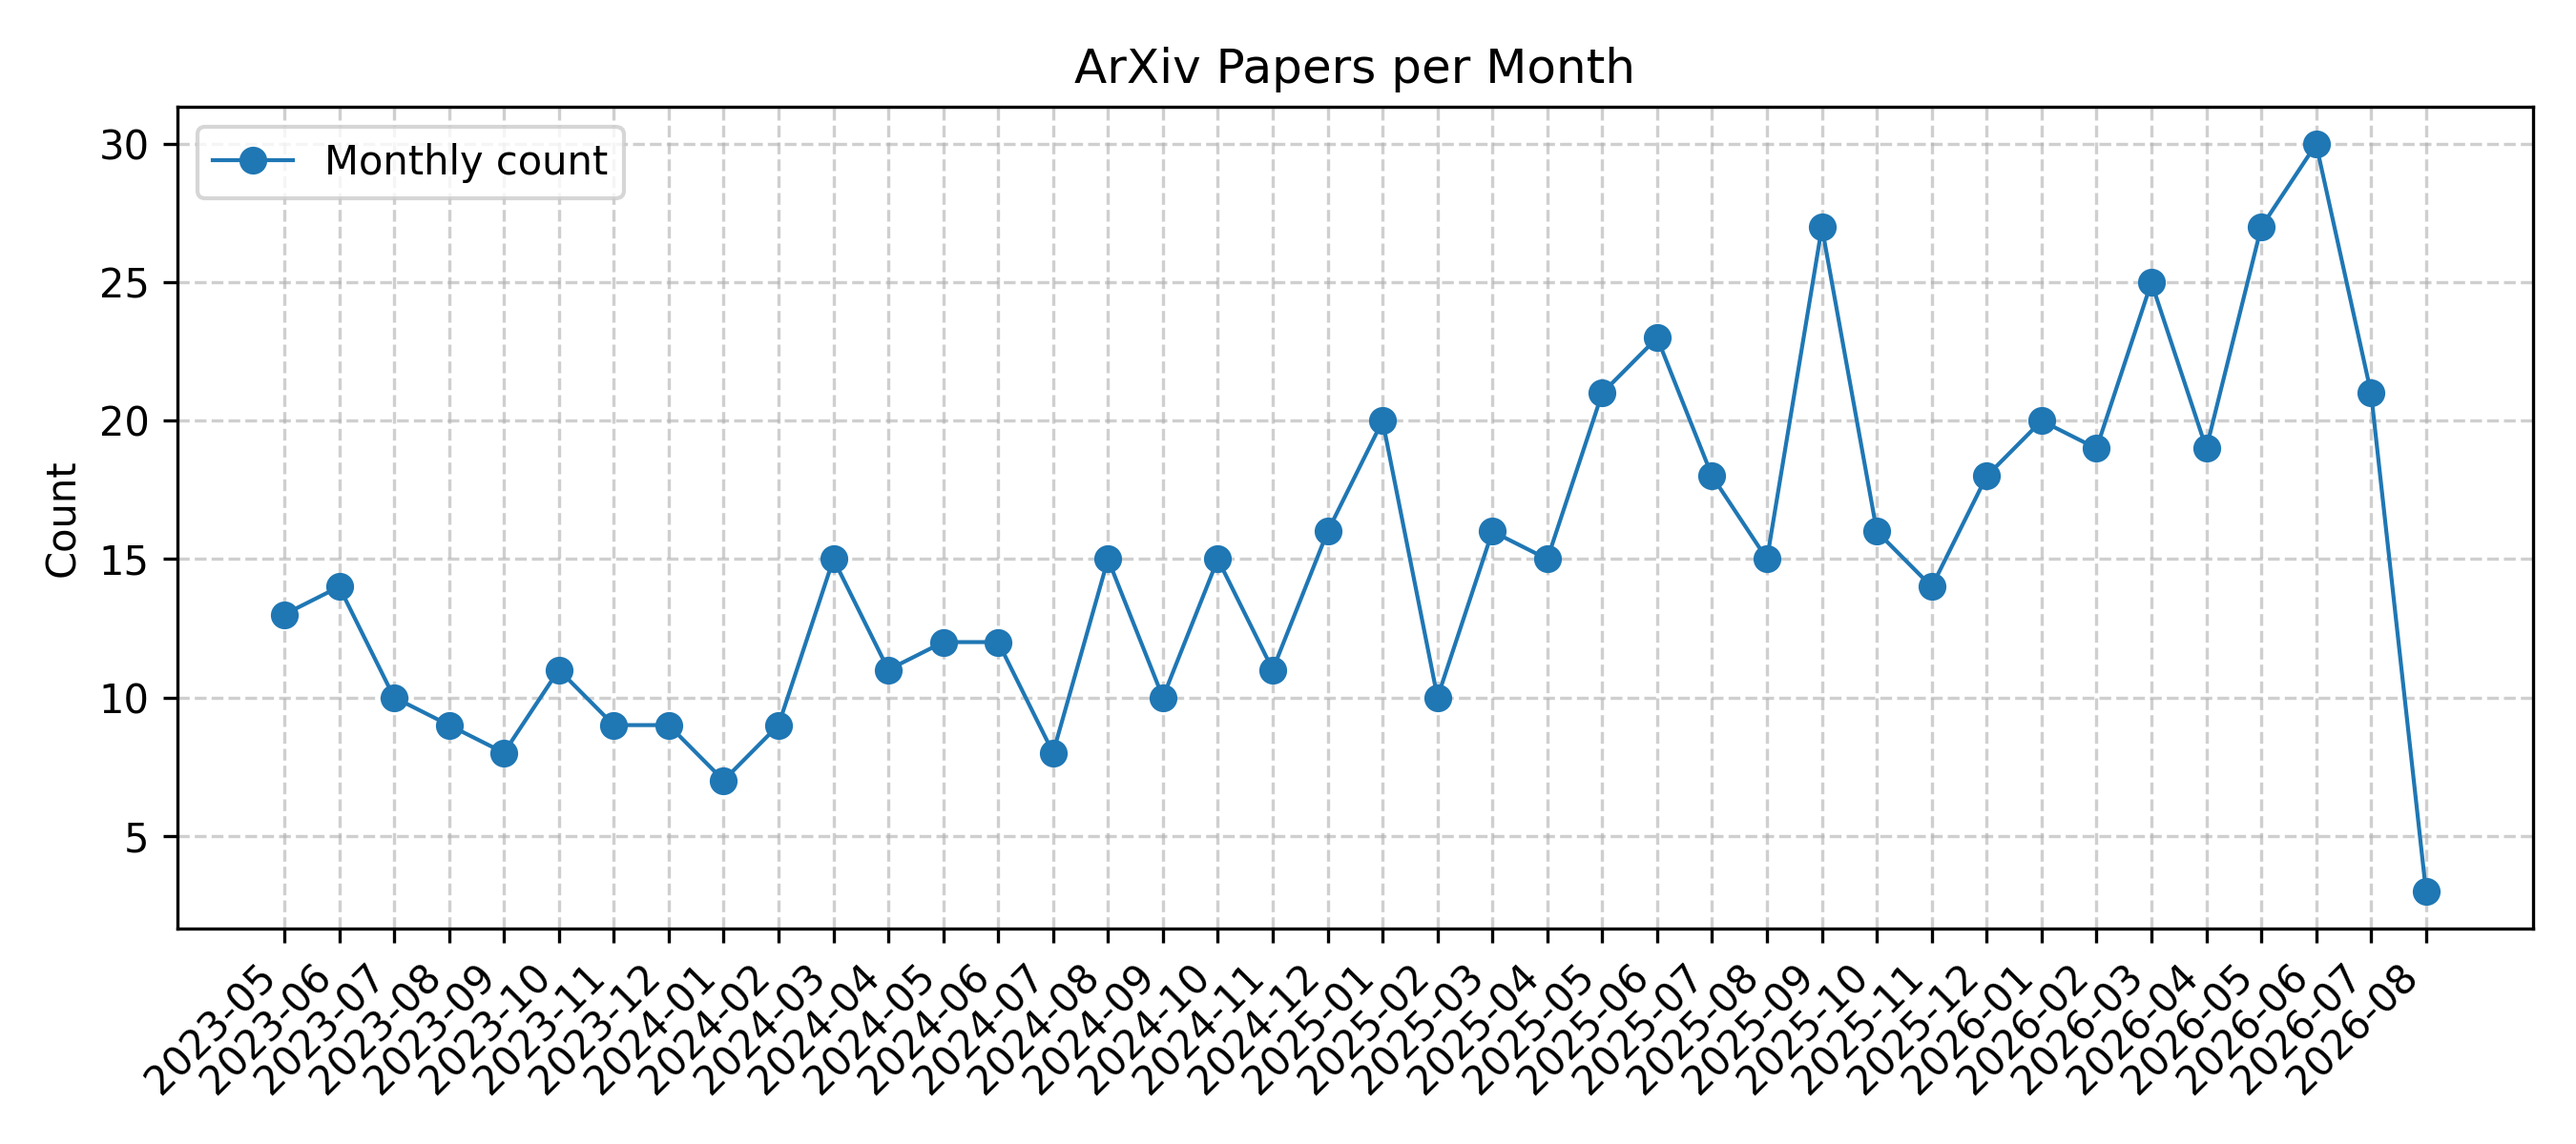
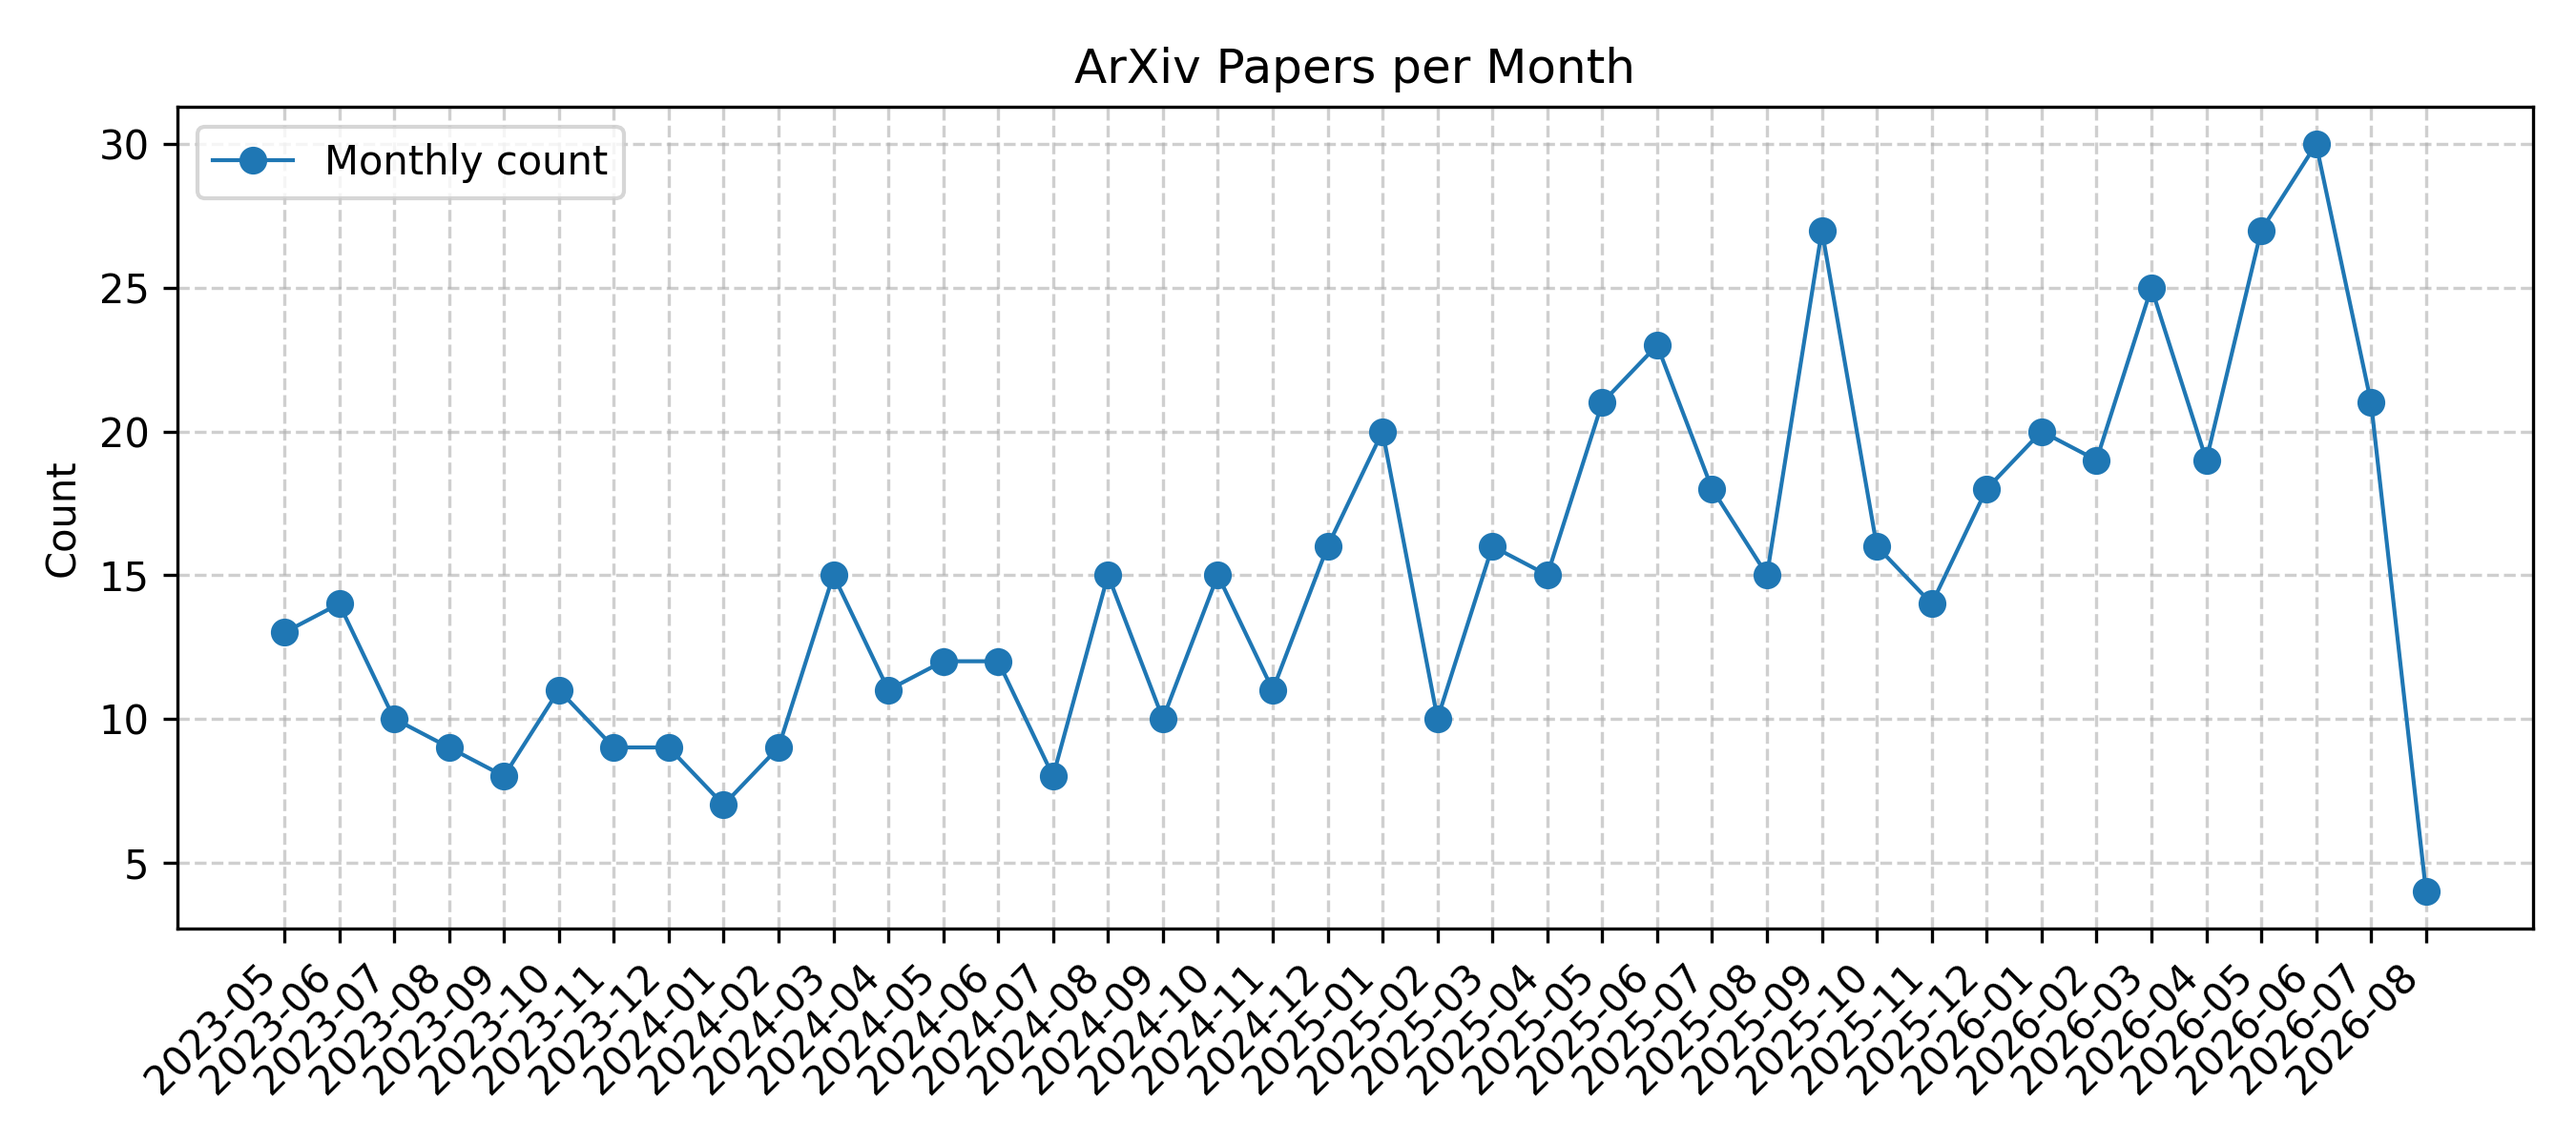
Github Action Automatic Update Diffusion NLP Arxiv Papers

diff --git a/README.md b/README.md
@@ -5,27 +5,29 @@
 
 This repository tracks the latest GraphRAG related papers from arXiv.
 
-## Updated on 2026.08.04
+## Updated on 2026.08.05
 
 ![Monthly Trend](imgs/trend.png)
 
 ## Recent Month Summary (2026-08)
 
-**3 paper(s)** submitted in 2026-08.
+**4 paper(s)** submitted in 2026-08.
 
 |Date|Title|PDF|Code|
 |---|---|---|---|
+|**2026-08-04**|**DocTrace: Towards Traceable Long Document VQA via Hierarchical Evidence Graph Reasoning**|[2608.03292v1](http://arxiv.org/abs/2608.03292v1)| null|
 |**2026-08-03**|**X-KGRank: A Knowledge Graph RAG Framework for Explainable Recommendations via Pattern Mining and LLM Re-Ranking**|[2608.01732v1](http://arxiv.org/abs/2608.01732v1)| null|
 |**2026-08-03**|**DocNavRAG: Document-Structured Graph RAG with Stateful Evidence Construction for Complex Document Question Answering**|[2608.01565v1](http://arxiv.org/abs/2608.01565v1)| null|
-|**2026-08-02**|**ACE-GraphRAG: Agentic Context Engineering for Hierarchical GraphRAG**|[2608.01269v1](http://arxiv.org/abs/2608.01269v1)| null|
+|**2026-08-04**|**ACE-GraphRAG: Agentic Context Engineering for Hierarchical GraphRAG**|[2608.01269v2](http://arxiv.org/abs/2608.01269v2)| null|
 
 ## graphrag
 
 |Date|Title|PDF|Code|
 |---|---|---|---|
+|**2026-08-04**|**DocTrace: Towards Traceable Long Document VQA via Hierarchical Evidence Graph Reasoning**|[2608.03292v1](http://arxiv.org/abs/2608.03292v1)| null|
 |**2026-08-03**|**X-KGRank: A Knowledge Graph RAG Framework for Explainable Recommendations via Pattern Mining and LLM Re-Ranking**|[2608.01732v1](http://arxiv.org/abs/2608.01732v1)| null|
 |**2026-08-03**|**DocNavRAG: Document-Structured Graph RAG with Stateful Evidence Construction for Complex Document Question Answering**|[2608.01565v1](http://arxiv.org/abs/2608.01565v1)| null|
-|**2026-08-02**|**ACE-GraphRAG: Agentic Context Engineering for Hierarchical GraphRAG**|[2608.01269v1](http://arxiv.org/abs/2608.01269v1)| null|
+|**2026-08-04**|**ACE-GraphRAG: Agentic Context Engineering for Hierarchical GraphRAG**|[2608.01269v2](http://arxiv.org/abs/2608.01269v2)| null|
 |**2026-07-30**|**OptGraph: Large Language Models Enhanced Evolutionary Optimization Via Graph Retrieval-Augmented Generation**|[2607.27918v1](http://arxiv.org/abs/2607.27918v1)| **[code](https://github.com/xianchaoxiu/OptGraph)**|
 |**2026-07-29**|**Dual-Path LLM Reasoning for Multimodal Few-Shot Knowledge Graph Completion**|[2607.26909v1](http://arxiv.org/abs/2607.26909v1)| null|
 |**2026-07-26**|**HVM-GraphRAG: Holistic-View Multimodal Graph Retrieval-Augmented Generation on Complex Document**|[2607.24861v1](http://arxiv.org/abs/2607.24861v1)| null|
@@ -68,7 +70,7 @@ This repository tracks the latest GraphRAG related papers from arXiv.
 |**2026-06-09**|**When Metrics Disagree: A Meta-Analysis of Knowledge-Graph-Completion Model Benchmarking**|[2606.10287v1](http://arxiv.org/abs/2606.10287v1)| null|
 |**2026-06-08**|**PROBE-Web: An Interactive System for Probing Evaluation Landscapes of Knowledge Graph Completion Models**|[2606.08926v1](http://arxiv.org/abs/2606.08926v1)| null|
 |**2026-06-08**|**Generalized Rank-based Evaluation for Knowledge Graph Completion: Perspectives, Framework, and Analyses**|[2606.08921v1](http://arxiv.org/abs/2606.08921v1)| null|
-|**2026-06-05**|**PDE-Agents: An LLM-Orchestrated Multi-Agent Framework for Automated Finite Element Simulations with Knowledge Graph-Augmented Reasoning**|[2606.07850v1](http://arxiv.org/abs/2606.07850v1)| null|
+|**2026-08-04**|**PDE-Agents: An LLM-Orchestrated Multi-Agent Framework for Automated Finite Element Simulations with Knowledge Graph-Augmented Reasoning**|[2606.07850v2](http://arxiv.org/abs/2606.07850v2)| null|
 |**2026-06-05**|**Pharmacogenomic Knowledge Graph Augmentation for Graph Neural Network-Based Drug-Drug Interaction Prediction**|[2606.07698v1](http://arxiv.org/abs/2606.07698v1)| null|
 |**2026-06-04**|**Beyond Vector Similarity: A Structural Analysis of Graph-Augmented Retrieval for Industrial Knowledge Graphs**|[2606.06003v1](http://arxiv.org/abs/2606.06003v1)| null|
 |**2026-06-04**|**Q-GNN: Query-Conditioned Graph Neural Networks with Type Awareness for Knowledge Graph Completion**|[2606.05639v1](http://arxiv.org/abs/2606.05639v1)| null|
@@ -625,7 +627,7 @@ This repository tracks the latest GraphRAG related papers from arXiv.
 |**2024-03-04**|**Pre-trained Language Model with Prompts for Temporal Knowledge Graph Completion**|[2305.07912v2](http://arxiv.org/abs/2305.07912v2)| null|
 |**2023-09-20**|**ACTC: Active Threshold Calibration for Cold-Start Knowledge Graph Completion**|[2305.06395v3](http://arxiv.org/abs/2305.06395v3)| null|
 
-<p align=right>(<a href=#Updated-on-20260804>back to top</a>)</p>
+<p align=right>(<a href=#Updated-on-20260805>back to top</a>)</p>
 
 [contributors-shield]: https://img.shields.io/github/contributors/bansky-cl/graphrag-arxiv-daily-paper.svg?style=for-the-badge
 [contributors-url]: https://github.com/bansky-cl/graphrag-arxiv-daily-paper/graphs/contributors
